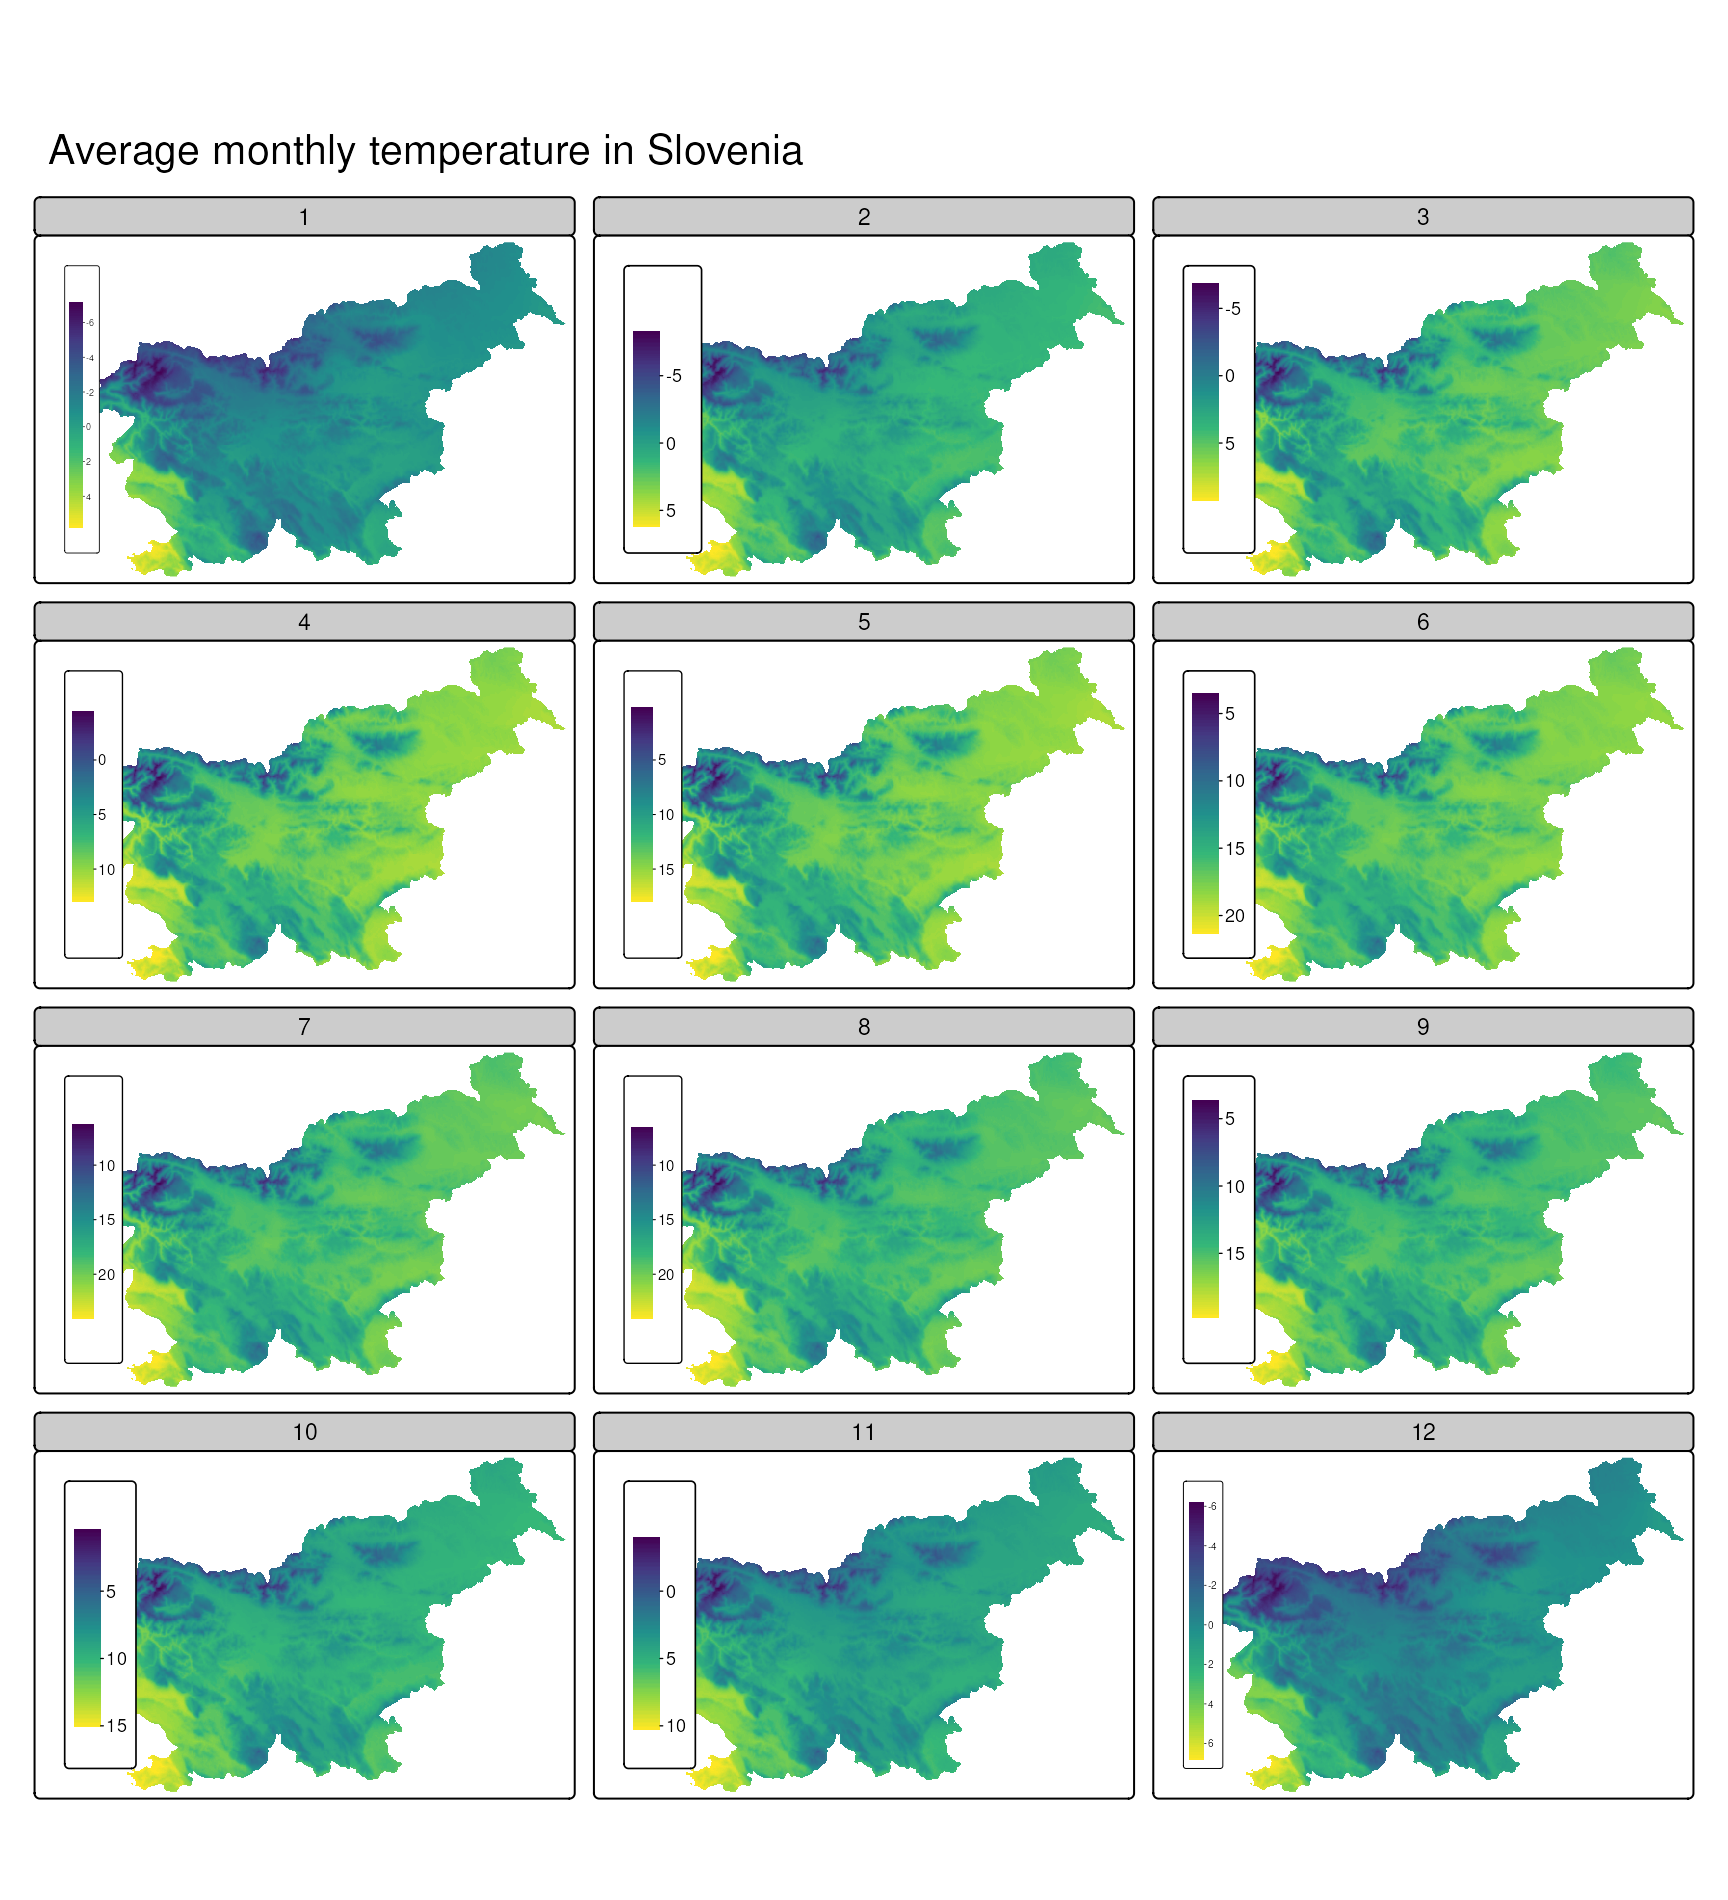
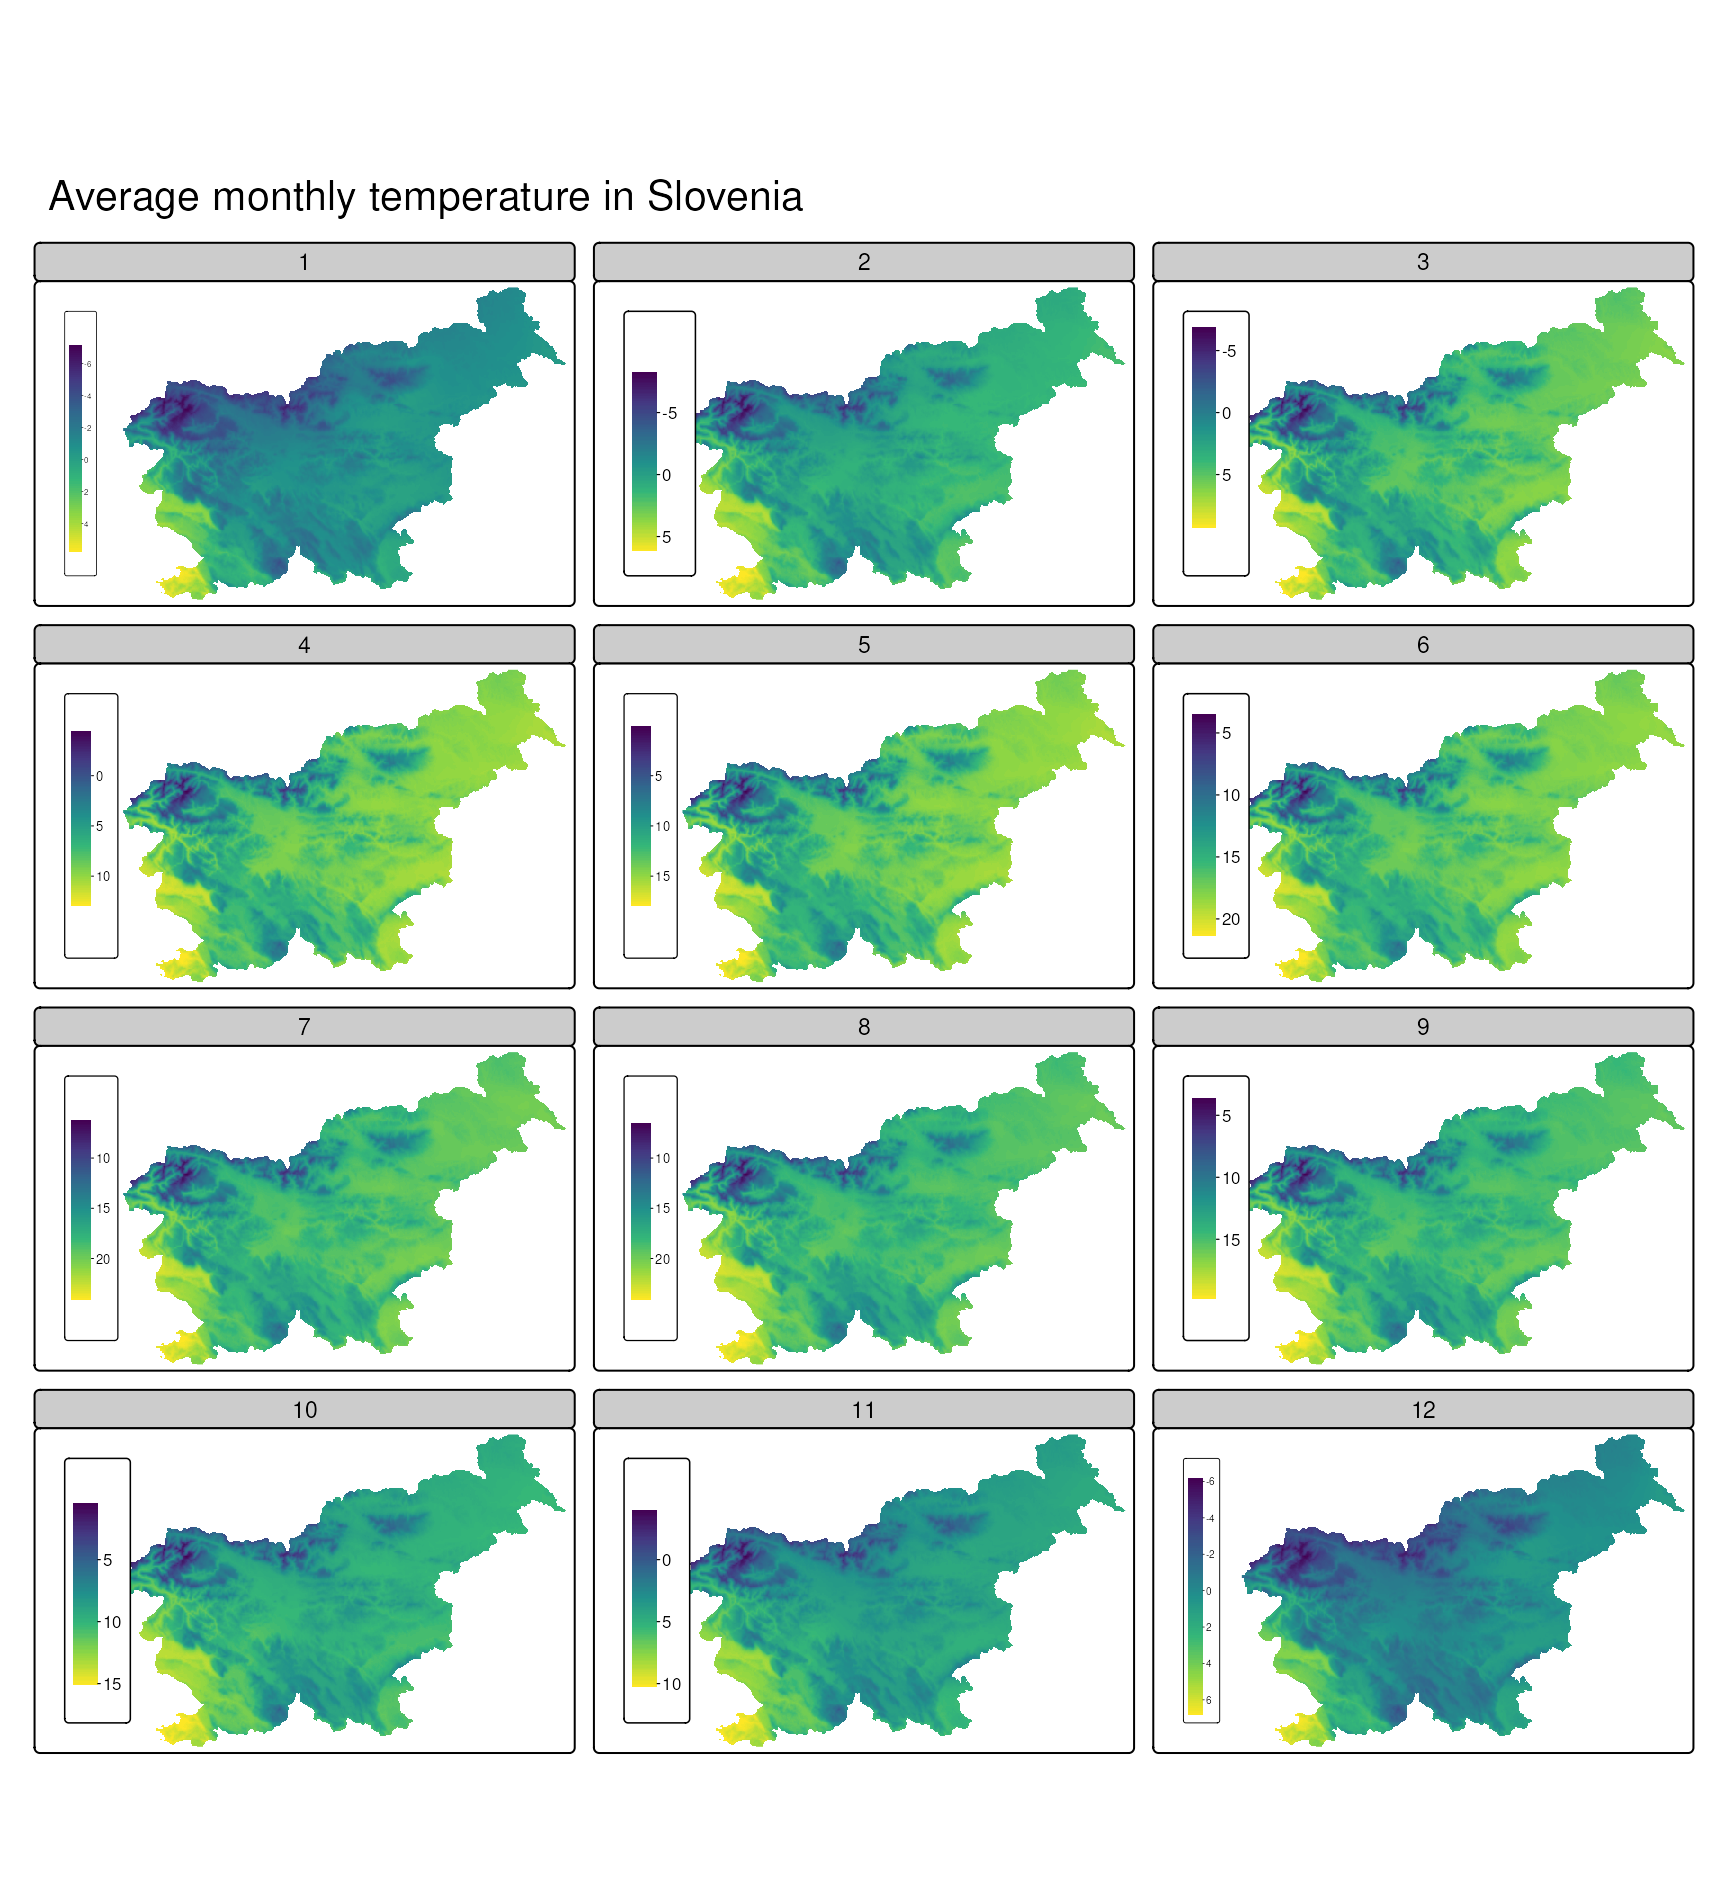
Deploy commit: Merge remote-tracking branch 'refs/remotes/origin/main' bf9fa338f3a0c60599818ba3145610264e05af82

diff --git a/charts.html b/charts.html
@@ -560,7 +560,7 @@ Figure&nbsp;14.1: Histogram added to a map to represent the distribution of a va
 <span><span class="fu"><a href="https://r-tmap.github.io/tmap/reference/tm_shape.html">tm_shape</a></span><span class="op">(</span><span class="va">slo_regions</span><span class="op">)</span> <span class="op">+</span></span>
 <span>  <span class="fu"><a href="https://r-tmap.github.io/tmap/reference/tm_polygons.html">tm_polygons</a></span><span class="op">(</span>fill <span class="op">=</span> <span class="st">"pop_dens"</span>,</span>
 <span>              fill.chart <span class="op">=</span> <span class="fu"><a href="https://r-tmap.github.io/tmap/reference/tm_chart.html">tm_chart_donut</a></span><span class="op">(</span><span class="op">)</span><span class="op">)</span></span></code><button title="Copy to Clipboard" class="code-copy-button"><i class="bi"></i></button></pre></div>
-<div class="cell quarto-layout-panel" data-layout-ncol="3" data-layout-align="center">
+<div class="cell quarto-layout-panel" data-layout-align="center" data-layout-ncol="3">
 <div class="quarto-layout-row">
 <div class="cell-output-display quarto-layout-cell" style="flex-basis: 33.3%;justify-content: center;">
 <div id="fig-chart-num-1" class="quarto-float quarto-figure quarto-figure-center anchored" data-fig-align="center">
@@ -602,7 +602,7 @@ Figure&nbsp;14.4: Charts for numerical data.
 <span><span class="fu"><a href="https://r-tmap.github.io/tmap/reference/tm_shape.html">tm_shape</a></span><span class="op">(</span><span class="va">slo_regions</span><span class="op">)</span> <span class="op">+</span></span>
 <span>  <span class="fu"><a href="https://r-tmap.github.io/tmap/reference/tm_polygons.html">tm_polygons</a></span><span class="op">(</span>fill <span class="op">=</span> <span class="st">"region_group"</span>,</span>
 <span>              fill.chart <span class="op">=</span> <span class="fu"><a href="https://r-tmap.github.io/tmap/reference/tm_chart.html">tm_chart_donut</a></span><span class="op">(</span><span class="op">)</span><span class="op">)</span></span></code><button title="Copy to Clipboard" class="code-copy-button"><i class="bi"></i></button></pre></div>
-<div class="cell quarto-layout-panel" data-layout-ncol="2" data-layout-align="center">
+<div class="cell quarto-layout-panel" data-layout-align="center" data-layout-ncol="2">
 <div class="quarto-layout-row">
 <div class="cell-output-display quarto-layout-cell" style="flex-basis: 50.0%;justify-content: center;">
 <div id="fig-chart-cat-1" class="quarto-float quarto-figure quarto-figure-center anchored" data-fig-align="center">

diff --git a/facets.html b/facets.html
@@ -601,7 +601,7 @@ Figure&nbsp;16.9: Facets for raster data.
 <span>    col.free <span class="op">=</span> <span class="cn">TRUE</span><span class="op">)</span> <span class="op">+</span></span>
 <span>  <span class="fu"><a href="https://r-tmap.github.io/tmap/reference/tm_facets.html">tm_facets</a></span><span class="op">(</span>by <span class="op">=</span> <span class="st">"band"</span>, ncol <span class="op">=</span> <span class="fl">3</span><span class="op">)</span> <span class="op">+</span></span>
 <span>  <span class="fu"><a href="https://r-tmap.github.io/tmap/reference/tm_layout.html">tm_layout</a></span><span class="op">(</span>panel.labels <span class="op">=</span> <span class="fu"><a href="https://rdrr.io/r/base/c.html">c</a></span><span class="op">(</span><span class="fl">1</span><span class="op">:</span><span class="fl">12</span><span class="op">)</span>,</span>
-<span>            inner.margins <span class="op">=</span> <span class="fu"><a href="https://rdrr.io/r/base/c.html">c</a></span><span class="op">(</span><span class="fl">0.02</span>, <span class="fl">0.12</span>, <span class="fl">0.02</span>, <span class="fl">0.02</span><span class="op">)</span><span class="op">)</span> <span class="op">+</span></span>
+<span>            inner.margins <span class="op">=</span> <span class="fu"><a href="https://rdrr.io/r/base/c.html">c</a></span><span class="op">(</span><span class="fl">0.02</span>, <span class="fl">0.2</span>, <span class="fl">0.02</span>, <span class="fl">0.02</span><span class="op">)</span><span class="op">)</span> <span class="op">+</span></span>
 <span>  <span class="fu"><a href="https://r-tmap.github.io/tmap/reference/tm_title.html">tm_title</a></span><span class="op">(</span><span class="st">"Average monthly temperature in Slovenia"</span><span class="op">)</span> </span></code><button title="Copy to Clipboard" class="code-copy-button"><i class="bi"></i></button></pre></div>
 <div class="cell-output-display">
 <div id="fig-facets11" class="quarto-float quarto-figure quarto-figure-center anchored" data-fig-align="center">

diff --git a/index.html b/index.html
@@ -6,7 +6,7 @@
 <meta name="viewport" content="width=device-width, initial-scale=1.0, user-scalable=yes">
 <meta name="author" content="Martijn Tennekes">
 <meta name="author" content="Jakub Nowosad">
-<meta name="dcterms.date" content="2025-06-27">
+<meta name="dcterms.date" content="2025-06-28">
 <meta name="description" content="“Spatial Data Visualization with tmap: A Practical Guide to Thematic Mapping in R” is a free, open-source book that teaches you how to create static and interactive maps using the tmap package in R. Covering core concepts in thematic cartography, map design, and spatial visualization, this guide provides step-by-step approaches to help you produce high-quality maps for reports, presentations, and web applications.">
 <title>Spatial Data Visualization with tmap</title>
 <style>
@@ -379,7 +379,7 @@ gtag('config', 'G-ER2GMPEJNF', { 'anonymize_ip': true});
     <div>
     <div class="quarto-title-meta-heading">Published</div>
     <div class="quarto-title-meta-contents">
-      <p class="date">2025-06-27</p>
+      <p class="date">2025-06-28</p>
     </div>
   </div>
   
@@ -407,7 +407,7 @@ gtag('config', 'G-ER2GMPEJNF', { 'anonymize_ip': true});
 <figure class="figure"><p><a href="https://creativecommons.org/publicdomain/zero/1.0/"><img src="https://i.creativecommons.org/l/zero/1.0/88x31.png" class="img-fluid figure-img"></a></p>
 <figcaption>CC0 1.0</figcaption></figure>
 </div>
-<p>This version of the book was built on GH Actions on 2025-06-27.</p>
+<p>This version of the book was built on GH Actions on 2025-06-28.</p>
 
 
 </section></section></main><!-- /main --><script id="quarto-html-after-body" type="application/javascript">
